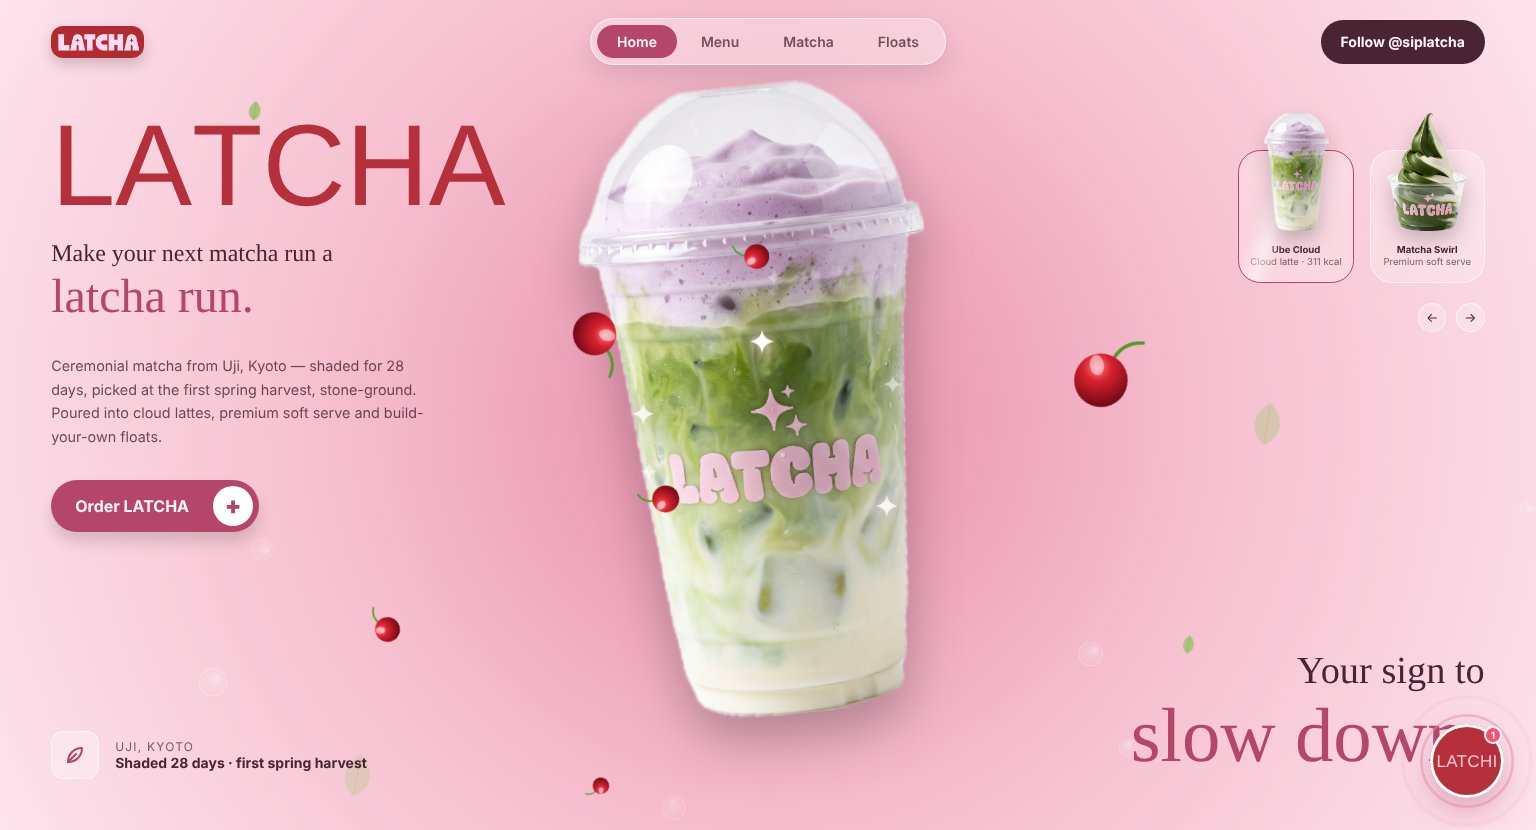
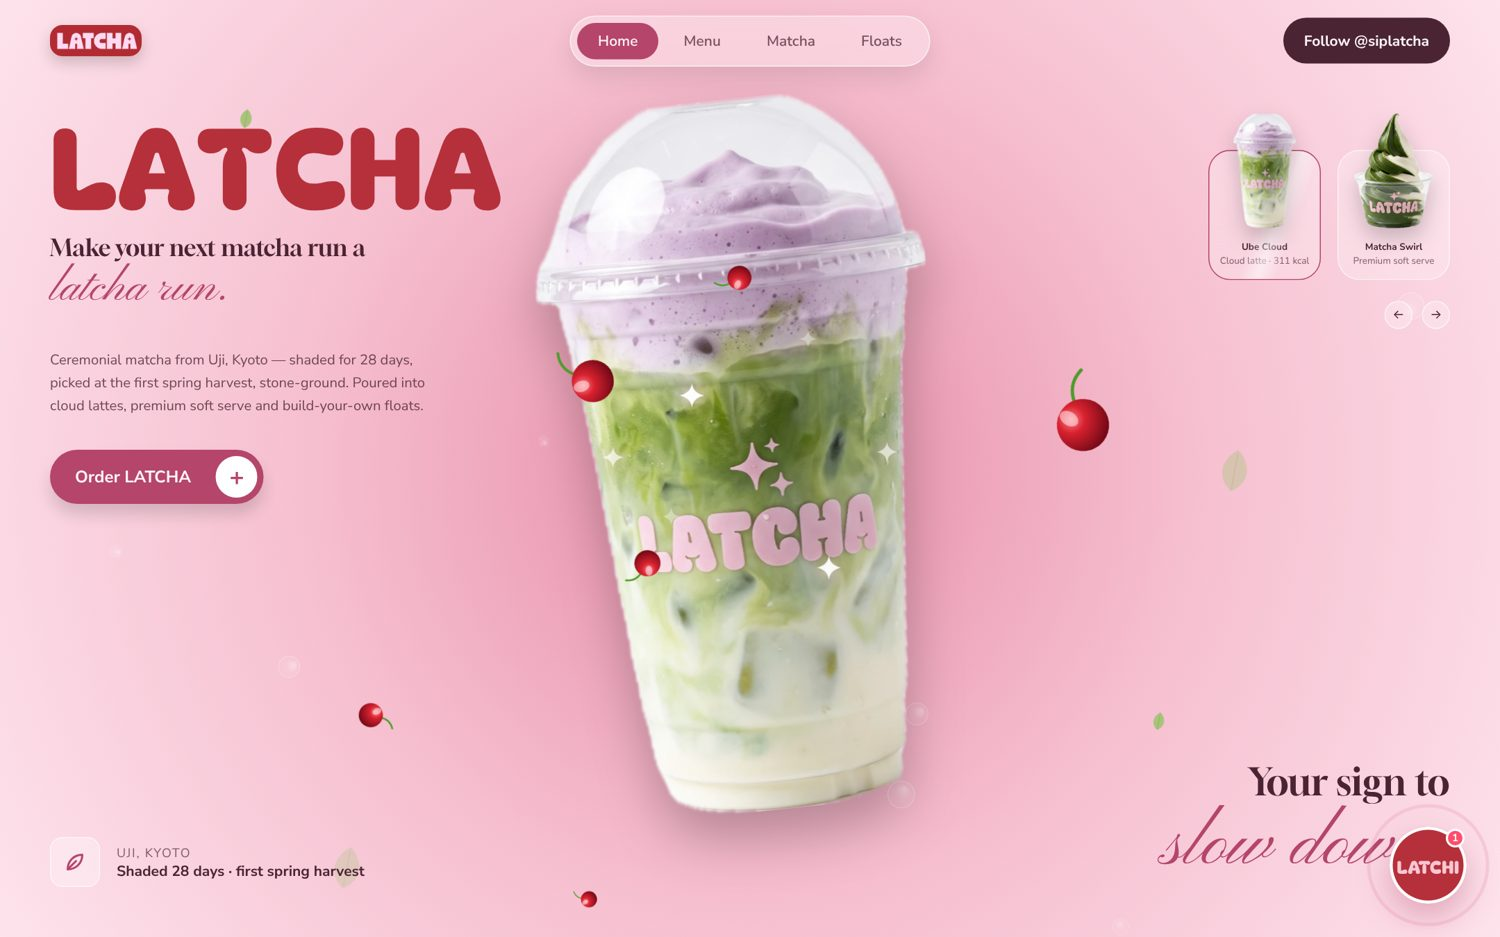
docs: livelier README, add a day with LATCHA

diff --git a/README.md b/README.md
@@ -4,9 +4,9 @@
 
 # LATCHA
 
-### Speciality matcha, cloud lattes and premium soft serve.<br>One scroll to browse. One form to order. One link for everything.
+### A matcha café website that moves, swirls and actually takes orders.<br>One scroll to fall in love. One form to order. One link for everything.
 
-**By Sunny & Sathvik**
+*Whisked slow. Sipped soft.* 🍵
 
 <br>
 
@@ -23,7 +23,71 @@
 
 <br>
 
-<p align="center"><a href="https://latcha-website.vercel.app"><b>View the live site →</b></a></p>
+<p align="center">
+<a href="https://latcha-website.vercel.app"><b>🍵 View the live site</b></a> &nbsp;·&nbsp;
+<a href="#-try-it-on-your-computer"><b>🚀 Run it</b></a> &nbsp;·&nbsp;
+<a href="#-what-every-button-does"><b>🖱 What every button does</b></a> &nbsp;·&nbsp;
+<a href="#-the-api"><b>🔌 API</b></a>
+</p>
+
+<p align="center"><sub>Built for the LATCHA matcha café · Hyderabad &amp; Bengaluru</sub></p>
+
+## 🌸 Why it feels special
+
+| | |
+|---|---|
+| 🥤 **A cup you can play with** | The hero cup floats, leans and tilts with your mouse (or your phone). Cherries and leaves drift around it and move away from your pointer. |
+| 💗 **One flavour tap changes the mood** | Switch from Ube Cloud to Matcha Swirl: the cup spins, the cherries fly in and out, and the whole background melts from rose pink to matcha green. |
+| 🎬 **A scroll that tells a story** | Cups, the matcha tin on a marble counter, then the pour. Smooth scroll, no jumps. |
+| 🛒 **A real shop behind the pretty page** | Menu of 33 dishes, order requests, an order tracker, reviews and an owner screen. All backed by a database. |
+| 📱 **Made for phones first** | Same site, laid out for thumbs. Tested on a 390 px screen with no sideways scrolling. |
+| 🛡 **Safe by default** | Hashed passwords, a spam trap, order limits, private tracking, reviews held until approved. |
+| ✅ **Tested** | 37 automatic tests (26 API + 11 real-browser) run on every push. |
+
+<br>
+
+## 🍃 A day with LATCHA
+
+| Time | Customer | Owner |
+|---|---|---|
+| ☀ Morning | Scrolls the story, builds a float: a Pure Iced Matcha Latte crowned with a Vanilla Silk swirl and extra matcha | Opens `/admin.html` and sees the overnight orders |
+| 🌤 Afternoon | Taps **Send order request** and gets an order number | Calls to confirm and sets the status to **Confirmed** |
+| 🌙 Evening | Types the number and phone in **Track your order** and sees **Delivered** | Switches a sold-out dish off and approves a new review |
+
+<br>
+
+## 📸 A quick look
+
+<p align="center">
+<img src="docs/preview-matcha.jpg" alt="Matcha Swirl flavour with the green background" width="49%">
+<img src="docs/preview-story.jpg" alt="The scroll story with customer words beside the cups" width="49%">
+</p>
+<p align="center">
+<img src="docs/preview-menu.jpg" alt="The menu boards" width="49%">
+<img src="docs/preview-float.jpg" alt="The build-your-own float section" width="49%">
+</p>
+<p align="center">
+<img src="docs/preview-fam.jpg" alt="The Latcha Fam section with the Instagram card and photo tiles" width="70%">
+</p>
+<p align="center">
+<img src="docs/preview-phone.jpg" alt="The site on a phone: hero, menu and float builder" width="70%">
+</p>
+<p align="center"><sub>Preview pictures show the page before the 3D cherries load. On the live site they are real 3D cherries.</sub></p>
+
+<br>
+
+## ⚡ Run it in 60 seconds
+
+```powershell
+python -m venv .venv
+.venv\Scripts\activate
+pip install -r requirements-dev.txt
+python scripts/init_db.py
+python -m uvicorn app.main:app --port 8000 --reload
+```
+Open **http://localhost:8000**. No database account needed: it uses a small local file. Full steps, Neon and Vercel setup are further down.
+
+<br>
 
 ## ✨ What it is
 
@@ -31,7 +95,7 @@ The LATCHA website and its backend in **one project**. One deploy gives one link
 
 | For customers | For the owner |
 |---|---|
-| A scroll story, the full menu, a float builder and the Latchi chat helper | Edit what is on the menu |
+| A home screen with a tilting cup, floating 3D cherries and two flavour cards, then a scroll story, the full menu, a float builder and the LATCHI chat helper | Edit what is on the menu |
 | **+ Add** and **−** on every dish, a cart bar, and an **Order request** form (name, phone, address) | See every order and set its status |
 | **Track your order**: type the order number and phone, see Received, Confirmed or Delivered | Customers see the status you set |
 | **Reviews**: read approved ones, write your own | Approve or delete reviews before the public sees them |
@@ -40,15 +104,28 @@ The LATCHA website and its backend in **one project**. One deploy gives one link
 
 <br>
 
+## 🎨 Design and speed
+
+- **Home screen:** a thick crimson LATCHA wordmark, a tilted Ube Cloud cup with sparkles, floating 3D cherries and leaves, bubbles, two flavour cards and the line "Your sign to slow down." Sizes scale with the screen width, so it looks the same on a laptop and on a large monitor.
+- **Colours:** the whole site uses one thick rose palette: rose `#f6bfd0`, deep rose `#e58aa6`, berry `#b5456a`, crimson `#b5303a`. The scroll story, the menu, the reviews and the footer match the home screen.
+- **Chat helper:** it is called **LATCHI** everywhere.
+- **Smooth scroll:** Lenis (`site/assets/vendor/lenis.min.js`).
+- **3D cherries and leaves:** Google's `model-viewer` (`site/assets/vendor/model-viewer.min.js`). The 3D files load from the internet. Until they arrive, flat pictures show, so the home screen never looks empty. If the local `model-viewer` file fails, the page loads it again from a public CDN.
+- **Speed:** the 3D objects start one at a time after the page loads, pictures lower down load only when you scroll near them, and the scroll story only redraws while you can see it. `speed-changes.patch` holds only these speed edits, so you can undo just them with `git apply -R speed-changes.patch` (do it before other edits to `site/index.html`).
+- **Tab icon:** the LATCHA logo (`favicon.ico` and `favicon-*.png` in `site/`).
+- **Pictures:** phone photos are stored upright. If you add a photo from a phone, rotate it properly before you save it as WebP, or it can show sideways.
+
+<br>
+
 ## 🧱 How the pieces fit
 
-```
-Browser ──▶  /              the website            (site/index.html)
-        ──▶  /api/...       FastAPI + SQLAlchemy   (app/)
-        ──▶  /admin.html    owner screen           (site/admin.html)
-                                  │
-                                  ▼
-                           Neon PostgreSQL  (menu_items, orders, order_lines, reviews)
+```mermaid
+flowchart LR
+  B([🌐 Browser]) --> W["/ &nbsp; the website<br/>site/index.html"]
+  B --> A["/api &nbsp; FastAPI + SQLAlchemy<br/>app/"]
+  B --> O["/admin.html &nbsp; owner screen"]
+  A --> D[("🗄 Neon PostgreSQL<br/>menu_items · orders · order_lines · reviews")]
+  O --> A
 ```
 
 <br>
@@ -57,10 +134,13 @@ Browser ──▶  /              the website            (site/index.html)
 
 | Where | Control | What happens |
 |---|---|---|
-| Top bar | **Home, Menu, Build a float, Latcha Fam, Reviews, Contact** | Scrolls to that section (phone: through the menu button) |
-| Top bar | **Order** | Opens the order form. Shows **Order (3)** when you have 3 items |
+| Top bar | **Home, Menu, Matcha, Floats** | Scrolls to that part of the page. The menu button on a phone also lists Latcha Fam, Reviews and Contact |
+| Top bar | **Follow @siplatcha** | Opens Instagram in a new tab |
+| Top bar | **Order** | Appears once you scroll past the first screen. Opens the order form. Shows **Order (3)** when you have 3 items |
 | Top bar (phone) | **Menu button** | Opens the links. `Esc` or tapping a link closes it |
-| Hero | **Order LATCHA** | Opens the order form |
+| Hero | **Order LATCHA +** | Opens the order form |
+| Hero | **Ube Cloud / Matcha Swirl cards and the two arrows** | Switch the flavour. The cup spins, the cherries fly in and out, and the background turns pink or green |
+| Hero | Move the mouse over the cup | The cup tilts and the cherries move away from the pointer. On a phone it follows the tilt of the phone |
 | Hero video | **Tap to play** | Starts the pouring video when the phone blocks autoplay |
 | Instagram card | **Follow @siplatcha** | Opens Instagram in a new tab |
 | Instagram card | **See the menu**, highlight circles | Scroll to the menu or the matching section |
@@ -75,13 +155,13 @@ Browser ──▶  /              the website            (site/index.html)
 | Tracker | **Check status** | Shows Received, Confirmed, Delivered or Cancelled, plus your items. Shows nothing private (no name, phone or address) |
 | Float builder | Latte, soft serve, extra matcha | Changes the picture and the summary |
 | Float builder | **Add this float to my order** | Adds the matching float from the menu and puts your latte and extra matcha in the order notes |
-| Float builder | **Ask Latchi about it** | Sends your float to the chat helper |
+| Float builder | **Ask LATCHI about it** | Sends your float to the chat helper |
 | Reviews | **Send review** | Goes to the owner. It appears on the site once approved |
 | Footer | **Follow @siplatcha** | Opens Instagram in a new tab |
-| Footer | **Delivery & hours** | Opens Latchi with the delivery answer and an **Open order form** button |
-| Chat bubble | **Latchi** | Answers menu questions. Say "order now" or press **Open order form** to order |
+| Footer | **Delivery & hours** | Opens LATCHI with the delivery answer and an **Open order form** button |
+| Chat bubble | **LATCHI** | Answers menu questions. Say "order now" or press **Open order form** to order |
 
-If the backend is offline, the **+ Add** buttons are hidden and **Order** opens Latchi instead, so nothing shows an error.
+If the backend is offline, the **+ Add** buttons are hidden and **Order** opens LATCHI instead, so nothing shows an error.
 
 <br>
 
@@ -186,7 +266,8 @@ Neon's free plan puts the database to sleep after 5 minutes idle, so the first r
 site/                   the website, served at /
 ├── index.html          the whole site (HTML, CSS, JavaScript)
 ├── admin.html          owner screen: orders, reviews, menu on/off
-└── assets/             pictures and videos
+├── favicon.ico, favicon-*.png, apple-touch-icon.png   the tab icon
+└── assets/             pictures and videos, plus vendor/ (lenis and model-viewer)
 app/                    the backend
 ├── main.py             starts the app, serves the site, security headers
 ├── routes.py           all API endpoints
@@ -205,6 +286,7 @@ index.py                the file Vercel looks for (loads app/main.py)
 requirements.txt        Python packages
 .env.example            the settings you need (copy to .env)
 docs/, tools/           README pictures, and a macOS cut-out helper
+speed-changes.patch     the speed edits only, so they can be undone on their own
 ```
 
 <br>
@@ -216,11 +298,12 @@ docs/, tools/           README pictures, and a macOS cut-out helper
 | 26 automated API tests (orders, order tracking, reviews, login, limits, cache, site serving) | Pass on SQLite and on PostgreSQL 16 |
 | 11 browser tests with Playwright (menu, + and − buttons, order, order tracking, review approval, owner login, spam trap), run on every push | Pass |
 | Browser run with Chromium: menu from the database, hidden dish removed, order, bad phone message, review, owner approval, scripts in reviews do not run | Pass |
-| Site with the backend switched off (built-in menu, calm messages, Order opens Latchi) | Pass |
+| Site with the backend switched off (built-in menu, calm messages, Order opens LATCHI) | Pass |
 | Sideways scrolling on a 390 px phone | None |
 | Live Vercel deploy and the Neon connection | **Pass.** `/api/health` returns `{"ok":true}` on the live site, and `/admin.html` loads |
 | Owner login and order tracking on the live site | **Pass.** Checked by hand |
-| Safari, iPhone and Android | **Pass.** Tried on real devices by the site owner |
+| Safari, iPhone and Android | **Pass.** Tried on real devices by the site owner (before the new home screen) |
+| New home screen, rose colours, tab icon and speed changes | All 37 tests pass on Sathvik's PC. The look was checked in screenshots and on the live site by eye. The 3D cherries need the internet and were not tested in the build sandbox |
 
 <br>
 
@@ -229,10 +312,11 @@ docs/, tools/           README pictures, and a macOS cut-out helper
 - [ ] **Who gets the orders.** Orders only appear in `/admin.html`. There is no email, SMS or WhatsApp alert yet, so someone must check it.
 - [ ] **Story reviews.** The three review cards in the scroll story are sample text until three real reviews are approved.
 - [ ] **Instagram numbers.** The post and follower counts are typed into the page.
-- [ ] **Opening hours.** Latchi says "Bengaluru till 1 AM, Hyderabad till 12 AM". Confirm this.
+- [ ] **Opening hours.** LATCHI says "Bengaluru till 1 AM, Hyderabad till 12 AM". Confirm this.
 - [ ] **Menu spelling.** "Caramel Toffe" is probably "Caramel Toffee".
 - [ ] **Photos.** Most pictures are AI-generated stand-ins. Replace them with LATCHA's own.
-- [ ] **Page weight.** The first load is about 12 MB. WebP versions of the pictures would help on mobile data.
+- [ ] **Page weight.** Pictures use WebP and load as you scroll, but the pour video is about 4 MB and the 3D cherries come from another server. Test on mobile data.
+- [ ] **Look on every screen.** The tests check behaviour, not looks. Check colours, sizes and picture direction by eye on a laptop and a phone after each change.
 - [ ] **New dishes need a picture.** Add `site/assets/menu/<category>-<number>.png`, where the number matches the dish's `position`. Without one, the card shows without a picture.
 
 <br>
@@ -247,9 +331,12 @@ docs/, tools/           README pictures, and a macOS cut-out helper
 
 <div align="center">
 
-**By Sunny & [Sathvik](https://github.com/sathvik1518)**<br>
-for **LATCHA** · founder **Rajasree Yarlagadda**
+Made with matcha and stubbornness for **LATCHA** · founder **Rajasree Yarlagadda**
 
 <sub>Whisked slow. Sipped soft. 🍵</sub>
+
+<br>
+
+**By Sathvik & Sunny**
 
 </div>
